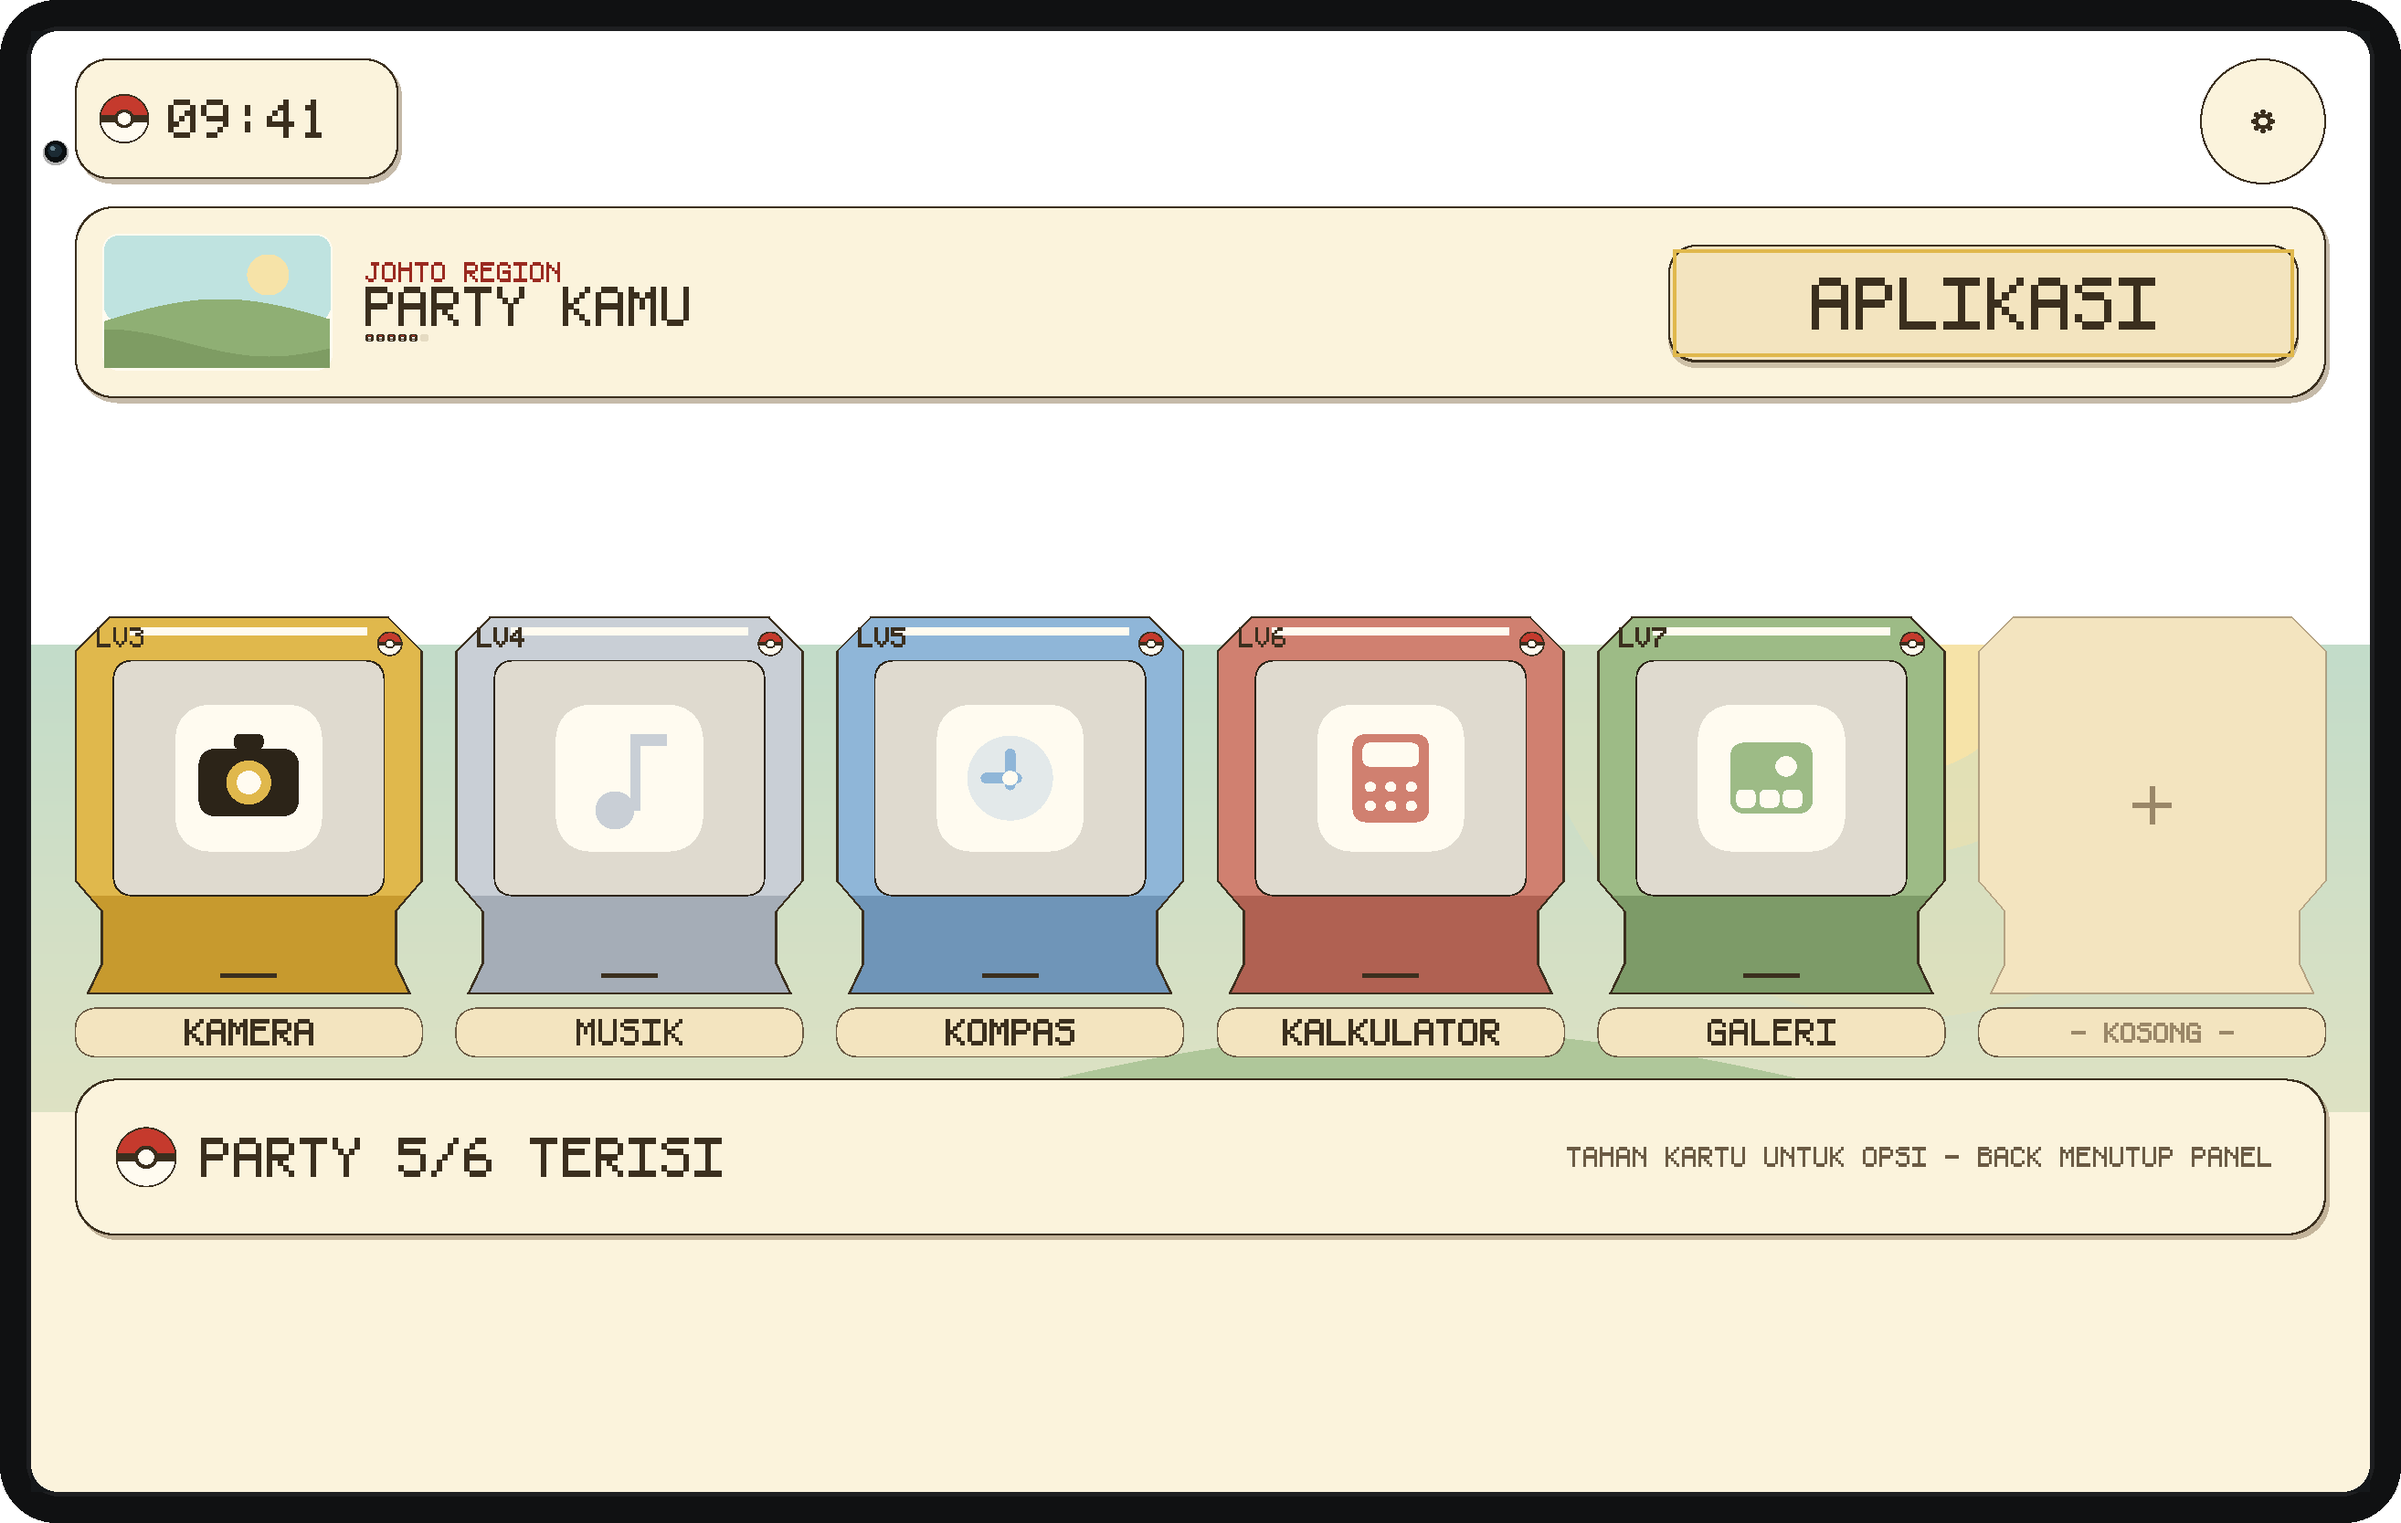
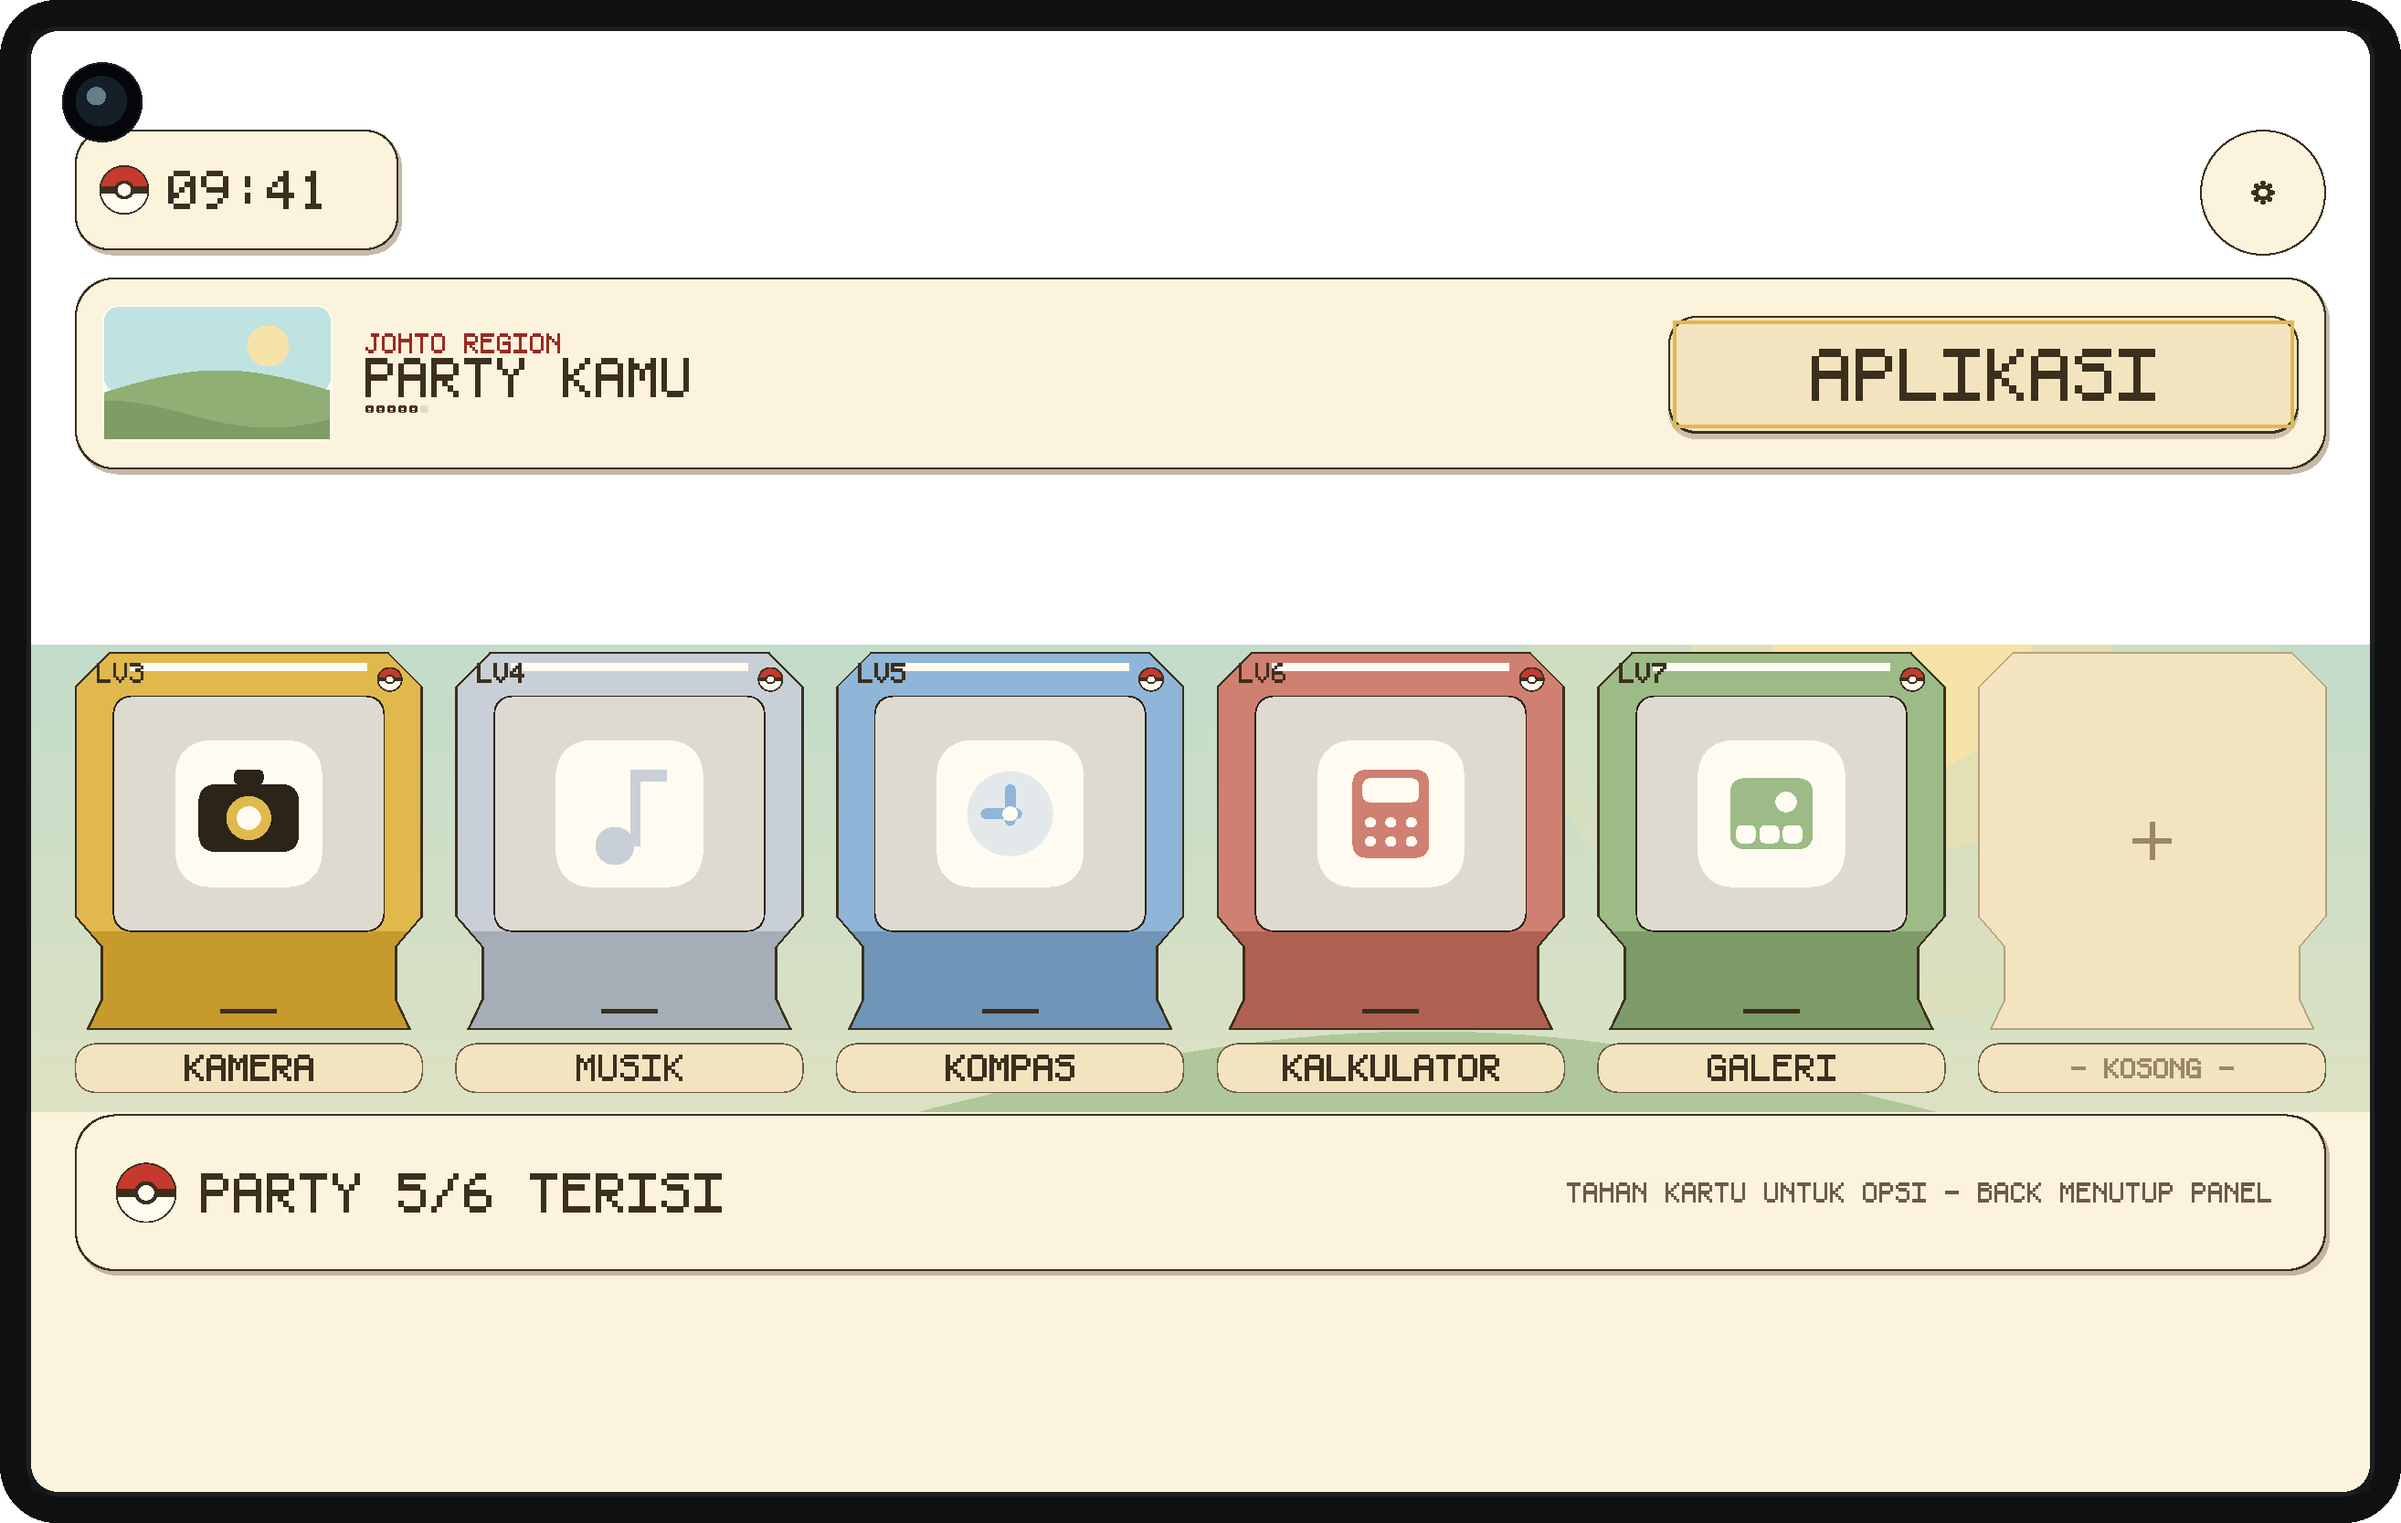
fix(preview): punch hole ke kiri atas + latar putih
Kamera depan MatePad Mini ada di sudut kanan atas panel portrait.
Memutar tablet ke landscape sebagaimana dipakai sehari-hari membawa
sudut itu ke KIRI atas layar, sesuai foto perangkat nyata (bukan kanan
atas seperti render sebelumnya).

- render_tablet.py: hole digambar di kiri atas, radius 14 dp (~86 px)
  dengan rim gap 12 dp dari tepi panel; inset status bar 26 dp agar
  konten turun ke bawah strip status seperti statusBarsPadding() di
  Compose, sehingga hole tidak menutupi kartu jam.
- verify.py: check_punch_hole() menjaga hole tetap di paruh kiri atas
  dengan diameter 2-8% lebar panel; sudah diuji negatif dengan render
  hole kecil dan hole di kanan (keduanya FAIL seperti diharapkan).
- preview_server.py: latar halaman putih polos, tanpa gradien/shadow.
- README: catatan orientasi hole + guard-nya.

Changed region(s): [[0.0312, 0.4053, 0.9673, 0.8417], [0.0, 0.0312, 0.9673, 0.3118], [0.8737, 0.53, 0.9049, 0.5612]]

diff --git a/tools/verify.py b/tools/verify.py
@@ -375,6 +375,108 @@ def check_preview_assets() -> None:
         if 'SHOT = "preview-tablet.png"' not in text:
             fail("preview_server.py must serve only the landscape MatePad Mini render")
 
+    check_punch_hole(os.path.join(docs, "preview-tablet.png"))
+
+
+def check_punch_hole(path: str) -> None:
+    """The selfie camera must sit in the TOP LEFT of the landscape screen.
+
+    The device has its punch hole in the top right corner of the portrait
+    panel; turning it counter clockwise for landscape carries that corner over
+    to the top left, which is what hands-on photos show. A render with the hole
+    in the other corner, or with a hole that is a token dot / a huge circle,
+    means the geometry regressed.
+    """
+    if not os.path.exists(path):
+        return
+    import zlib
+
+    with open(path, "rb") as handle:
+        blob = handle.read()
+    pos, idat, width, height, colour_type = 8, b"", 0, 0, None
+    while pos + 8 <= len(blob):
+        import struct
+        length = struct.unpack(">I", blob[pos:pos + 4])[0]
+        tag = blob[pos + 4:pos + 8]
+        body = blob[pos + 8:pos + 8 + length]
+        if tag == b"IHDR":
+            width, height = struct.unpack(">II", body[:8])
+            colour_type = body[9]
+        elif tag == b"IDAT":
+            idat += body
+        pos += 12 + length
+    if colour_type != 6 or not width or not height:
+        return
+
+    bpp, stride = 4, width * 4
+    raw = zlib.decompress(idat)
+    rows, prev, offset = [], bytearray(stride), 0
+    for _ in range(height):
+        filt = raw[offset]
+        offset += 1
+        line = bytearray(raw[offset:offset + stride])
+        offset += stride
+        if filt == 1:
+            for i in range(bpp, stride):
+                line[i] = (line[i] + line[i - bpp]) & 255
+        elif filt == 2:
+            for i in range(stride):
+                line[i] = (line[i] + prev[i]) & 255
+        elif filt == 3:
+            for i in range(stride):
+                left = line[i - bpp] if i >= bpp else 0
+                line[i] = (line[i] + ((left + prev[i]) >> 1)) & 255
+        elif filt == 4:
+            for i in range(stride):
+                a = line[i - bpp] if i >= bpp else 0
+                b = prev[i]
+                c = prev[i - bpp] if i >= bpp else 0
+                p = a + b - c
+                pa, pb, pc = abs(p - a), abs(p - b), abs(p - c)
+                pred = a if (pa <= pb and pa <= pc) else (b if pb <= pc else c)
+                line[i] = (line[i] + pred) & 255
+        rows.append(line)
+        prev = line
+
+    def dark(x: int, y: int) -> bool:
+        i = x * 4
+        line = rows[y]
+        return (line[i] + line[i + 1] + line[i + 2]) / 3 < 45
+
+    # The black bezel is the outermost ring; the lit panel starts inside it.
+    bezel = max(8, height // 40)
+    inner_w, inner_h = width - 2 * bezel, height - 2 * bezel
+
+    # A punch hole is a dark disc that is much darker than the UI around it.
+    # Restrict the search to the top strip inside the panel, split into halves.
+    strip = bezel + max(40, inner_h // 8)
+    counts = {"left": 0, "right": 0}
+    for y in range(bezel, strip):
+        for x in range(bezel, width - bezel):
+            if dark(x, y):
+                counts["left" if x < width // 2 else "right"] += 1
+    if counts["left"] < 2000 or counts["right"] > counts["left"] * 0.6:
+        fail(f"punch hole should sit in the top LEFT of the landscape screen, "
+             f"dark pixels in top strip: left={counts['left']} right={counts['right']}")
+
+    # Size sanity: the hole spans a few percent of the screen width, not a dot
+    # and not a fist sized circle. Measure the dark blob in the top left corner
+    # window only, so the UI icons below and the bezel never enter the box.
+    window_w, window_h = max(60, inner_w // 10), max(60, inner_h // 8)
+    xs, ys = [], []
+    for y in range(bezel, bezel + window_h):
+        for x in range(bezel, bezel + window_w):
+            if dark(x, y):
+                xs.append(x)
+                ys.append(y)
+    if not xs:
+        fail("punch hole not found in the top left corner of the screen")
+    else:
+        diameter = max(max(xs) - min(xs), max(ys) - min(ys)) + 1
+        if not (0.02 * inner_w <= diameter <= 0.08 * inner_w):
+            fail(f"punch hole diameter {diameter}px on a {inner_w}px wide panel "
+                 "is off; expect about 3-5% of the panel width")
+
 
 
 

diff --git a/tools/render_tablet.py b/tools/render_tablet.py
@@ -47,6 +47,19 @@ HILL_FAR = rgb("AFC79A")
 HILL_MID = rgb("8FAF74")
 HILL_NEAR = rgb("7E9C63")
 GRASS = rgb("5F7F4C")
+# Punch hole: 32 MP selfie camera. In portrait the hole sits in the top right
+# corner of the 1600 x 2560 panel; turning the tablet the usual way for
+# landscape (counter clockwise, keys on top) brings that corner to the top
+# LEFT of the screen, which is where hands-on photos of the device show it.
+# Measured off orthographic product photography: the hole is ~5.4% of the
+# 1600 px short side, i.e. ~86 px / ~28 dp across, sitting inside the status
+# bar strip with a rim gap of ~12 dp to the two nearest panel edges.
+CAMERA_INSET_DP = 12.0    # rim gap between the hole edge and the panel edge
+CAMERA_RADIUS_DP = 14.0   # 28 dp diameter, matching the 86 px hole on device
+# WindowInsets.statusBars height: the hole stays inside this strip, exactly as
+# it does on the device where the selfie camera looks over the status bar.
+STATUS_BAR_DP = 26.0
+
 BEZEL_BLACK = rgb("101112")   # flat black surround
 BEZEL_RIM = rgb("2A2C2E")     # hairline where the glass meets the panel
 BEZEL_DARK = rgb("15181A")
@@ -666,7 +679,9 @@ class Device:
         self.scrim(cv)
 
         margin = dp(16)
-        y = dp(10)
+        # LauncherScreen applies statusBarsPadding() around the whole column,
+        # so the first card starts below the status bar strip.
+        y = dp(STATUS_BAR_DP) + dp(10)
         y += self.top_bar(cv, margin, y) + dp(10)
         y += self.player_card(cv, margin, y, self.w - margin * 2) + dp(10)
         self.party_grid(cv, margin, y, self.w - margin * 2, y, self.h - dp(10))
@@ -705,14 +720,24 @@ class Device:
                 self.SCREEN_CORNER + dp(1.6), alpha=0.55)
 
     def draw_hardware(self) -> None:
-        """Only what is visible from the front: the punch hole camera."""
+        """Only what is visible from the front: the punch hole camera.
+
+        The camera sits in the top right corner of the portrait panel. The
+        tablet is normally turned counter clockwise to landscape (volume keys
+        on top), which carries that corner over to the top LEFT of the screen,
+        exactly where hands-on photos of the MatePad Mini show the hole.
+        """
         cv = self.cv
-        # landscape only: the punch hole sits near the left long edge
-        cam_x, cam_y = self.BEZEL + dp(9), self.BEZEL + dp(44)
-        cv.disc(cam_x, cam_y + dp(0.5), dp(4.6), (0, 0, 0), alpha=0.30)
-        cv.disc(cam_x, cam_y, dp(3.9), rgb("0B0F11"))
-        cv.disc(cam_x - dp(0.3), cam_y - dp(0.3), dp(2.4), rgb("1B2A33"))
-        cv.disc(cam_x - dp(1.1), cam_y - dp(1.1), dp(0.8), rgb("6E8A96"), alpha=0.9)
+        radius = dp(CAMERA_RADIUS_DP)
+        cam_x = self.BEZEL + dp(CAMERA_INSET_DP) + radius
+        cam_y = self.BEZEL + dp(CAMERA_INSET_DP) + radius
+
+        # dark rim, then the lens barrel, then the glass reflection
+        ring = radius + dp(0.6)
+        cv.disc(cam_x, cam_y, ring, rgb("070A0C"), alpha=0.9)
+        cv.disc(cam_x, cam_y, radius, rgb("04060A"))
+        cv.disc(cam_x - dp(0.4), cam_y - dp(0.4), radius * 0.66, rgb("141F27"))
+        cv.disc(cam_x - dp(2.2), cam_y - dp(2.2), radius * 0.24, rgb("6F8A96"), alpha=0.9)
 
     def render(self) -> Canvas:
         # body first (opaque bezel, transparent outside the rounded corners),

diff --git a/tools/preview_server.py b/tools/preview_server.py
@@ -33,26 +33,13 @@ PAGE = """<!DOCTYPE html>
     min-height: 100vh;
     display: grid; place-items: center;
     padding: clamp(8px, 2.5vw, 28px);
-    /* the previous paper backdrop, so the black bezel has clear edges */
-    background:
-      radial-gradient(1000px 520px at 78% -8%, rgba(159, 212, 210, .55), transparent 62%),
-      linear-gradient(180deg, #f4e7be 0%, #fbf3dc 46%, #fbf3dc 100%);
-    background-attachment: fixed;
+    background: #ffffff;
   }
   img {
     display: block;
     max-width: 100%;
     max-height: calc(100vh - 2 * clamp(8px, 2.5vw, 28px));
     width: auto; height: auto;
-    filter: drop-shadow(0 16px 36px rgba(59, 47, 30, .28));
-  }
-  @media (prefers-color-scheme: dark) {
-    body {
-      background:
-        radial-gradient(1000px 520px at 78% -8%, rgba(60, 96, 96, .45), transparent 62%),
-        linear-gradient(180deg, #1b1c1e 0%, #141517 100%);
-    }
-    img { filter: drop-shadow(0 16px 36px rgba(0, 0, 0, .55)); }
   }
 </style>
 </head>

diff --git a/README.md b/README.md
@@ -149,6 +149,11 @@ python3 tools/preview_server.py --port 9000
 Setelah `tools/render_tablet.py` dijalankan, cukup refresh browser. Server hanya menyajikan
 `/docs/preview-tablet.png`; sisa repo tidak bisa diakses.
 
+Punch hole kamera ada di **kiri atas** layar landscape: pada panel portrait hole-nya di sudut
+kanan atas, dan memutar tablet ke landscape (searah jarum jam, tombol volume di atas) membawa
+sudut itu ke kiri atas — sama seperti yang terlihat di foto perangkat sungguhan. `verify.py`
+menjaga posisi dan ukurannya (sekitar 3-5% lebar panel) supaya tidak melenceng lagi.
+
 ## Build APK lewat GitHub Actions
 
 Repo ini menyertakan `.github/workflows/android.yml`: setiap push ke branch mana pun akan
